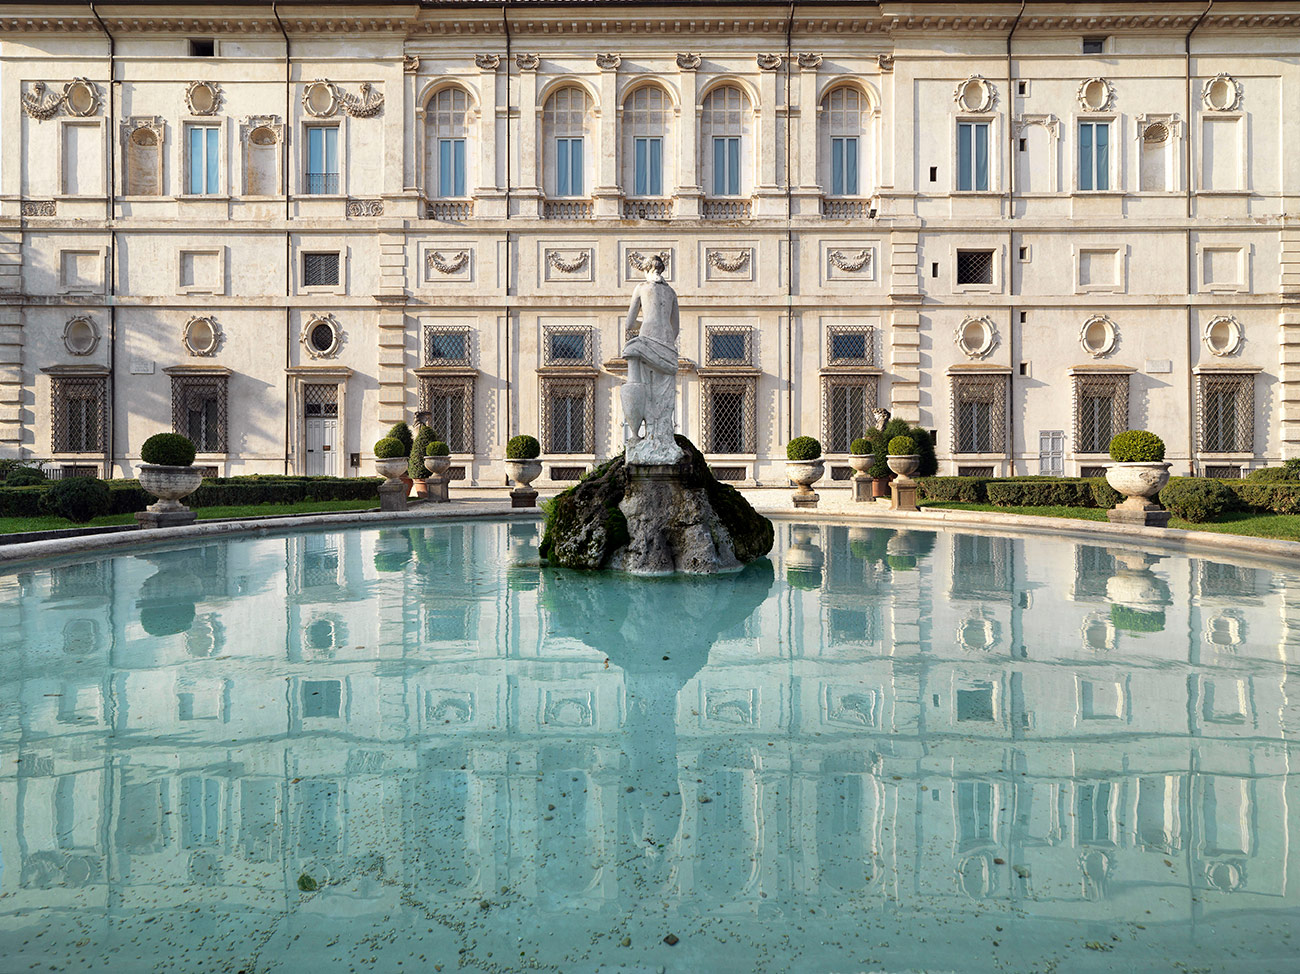
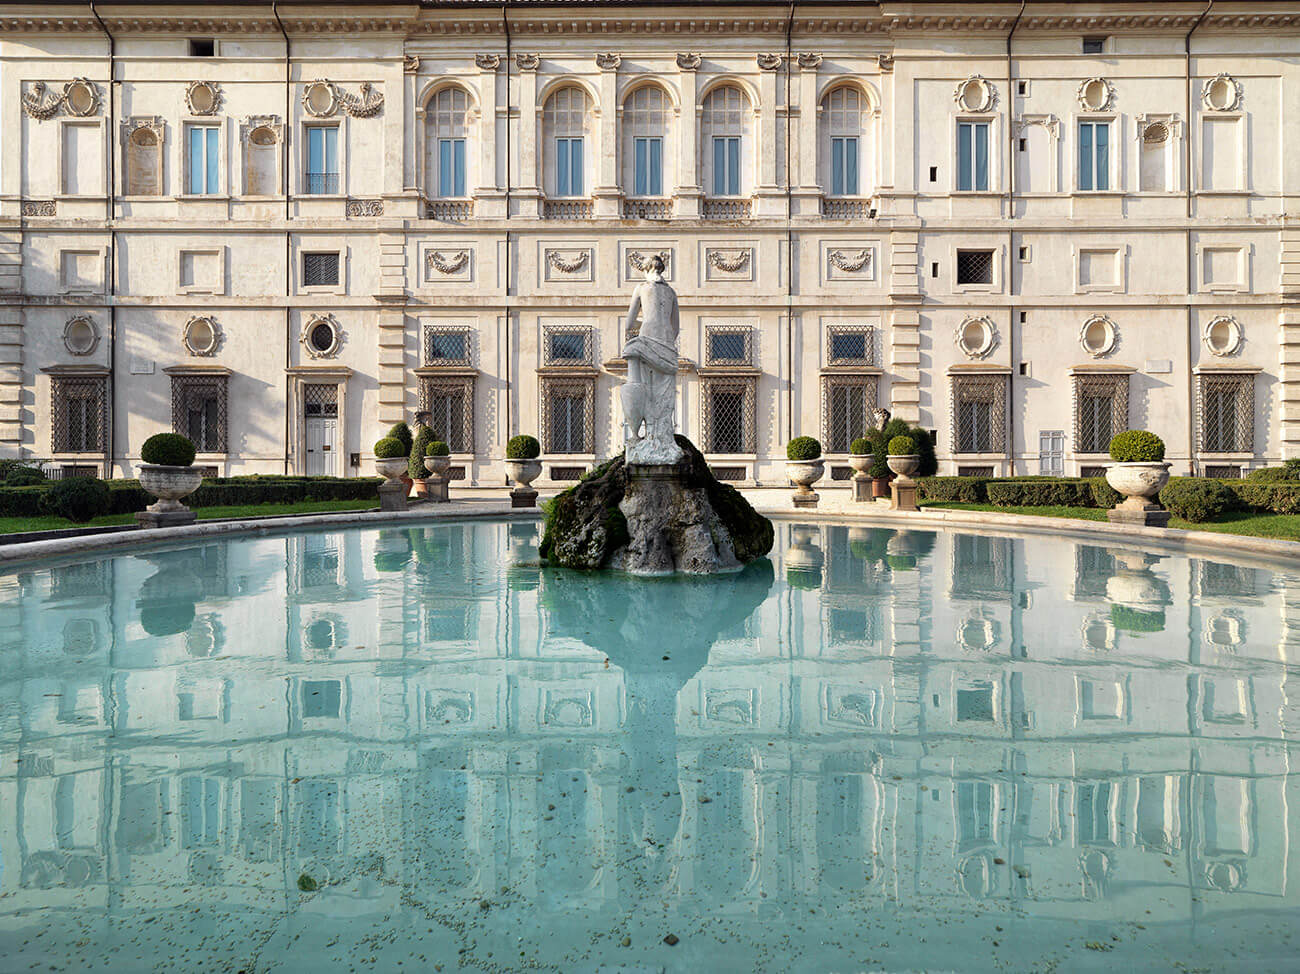
fix optimized images

diff --git a/tools/googlemaps.html b/tools/googlemaps.html
@@ -9,7 +9,7 @@
     <h1 style="text-align: center;">Google Maps TEST</h1>
     <div class="row-100">
         <div class="container-50">
-            <input type="text" id="search-box" placeholder="Cerca per nome, categoria o descrizione" style="width: 300px; padding: 10px;">
+            <input type="text" id="search-box" placeholder="Search by name, category or description" style="width: 300px; padding: 10px;">
             <div id="autocomplete-suggestions" style="border: 1px solid #ccc; width: 300px; display: none;"></div>
     
             <!-- Mappa -->
@@ -17,9 +17,12 @@
     
             <!-- Filtri per categoria -->
             <div id="filters">
-                <button onclick="filterByCategory('all'); setActiveButton(this)" class="active">Mostra Tutti</button>
-                <button onclick="filterByCategory('museum'); setActiveButton(this)">Musei</button>
-                <button onclick="filterByCategory('historical'); setActiveButton(this)">Luoghi Storici</button>
+                <button onclick="filterByCategory('all'); setActiveButton(this)" class="active"> Show all</button>
+                <button onclick="filterByCategory('museum'); setActiveButton(this)"> <img src="/assets/img/blue-dot.svg" alt=""> Museums</button>
+                <button onclick="filterByCategory('historical'); setActiveButton(this)"> <img src="/assets/img/red-dot.svg" alt=""> Historical Places</button>
+                <button onclick="filterByCategory('modern'); setActiveButton(this)"> <img src="/assets/img/orange-dot.svg" alt=""> Modern Places</button>
+                <button onclick="filterByCategory('religious'); setActiveButton(this)"> <img src="/assets/img/purple-dot.svg" alt=""> Religious Places</button>
+                <button onclick="filterByCategory('park'); setActiveButton(this)"> <img src="/assets/img/green-dot.svg" alt=""> Parks</button>
             </div>
         </div>
         <div class="container-50">
@@ -49,7 +52,10 @@
         // Categorie personalizzate con icone diverse
         let categoryIcons = {
             "museum": "/assets/img/blue-dot.svg",
-            "historical": "/assets/img/red-dot.svg"
+            "historical": "/assets/img/red-dot.svg",
+            "modern": "/assets/img/orange-dot.svg",
+            "religious": "/assets/img/purple-dot.svg",
+            "park": "/assets/img/green-dot.svg"
         };
     
         // Funzione per aggiungere marker
@@ -58,17 +64,17 @@
                 let marker = new google.maps.Marker({
                     position: { lat: location.lat, lng: location.lng },
                     map: googleMap,
-                    icon: categoryIcons[location.category] || "/assets/img/green-dot.svg",
+                    icon: categoryIcons[location.category] || "/assets/img/yellow-dot.svg",
                     title: location.name
                 });
     
                 let contentString = `
                     <div>
                         <h2>${location.name}</h2>
-                        <p><strong>Descrizione:</strong> ${location.description}</p>
-                        <p><strong>Indirizzo:</strong> ${location.address}</p>
-                        <p><strong>Telefono:</strong> ${location.phone}</p>
-                        <p><a href="${location.url}" target="_blank">Sito web</a></p>
+                        <p><strong>Description:</strong> ${location.description}</p>
+                        <p><strong>Address:</strong> ${location.address}</p>
+                        <p><strong>Telephone:</strong> ${location.phone}</p>
+                        <p><a href="${location.url}" target="_blank">Website</a></p>
                         <img src="${location.image}" alt="${location.name}" style="width: 100px;">
                     </div>
                 `;
@@ -102,7 +108,7 @@
                     initializeSearch(data);
                 })
                 .catch(error => {
-                    console.error('Errore nel caricamento delle posizioni:', error);
+                    console.error('Error loading locations:', error);
                 });
         }
     
@@ -140,11 +146,11 @@
             showResultsDiv.innerHTML = locations.map(location => `
                 <div class="result">
                     <h2>${location.name}</h2>
-                    <p><strong>Descrizione:</strong> ${location.description}</p>
+                    <p><strong>Description:</strong> ${location.description}</p>
                     <p><strong>Categoria:</strong> ${location.category}</p>
-                    <p><strong>Indirizzo:</strong> ${location.address}</p>
-                    <p><strong>Telefono:</strong> ${location.phone}</p>
-                    <p><a href="${location.url}" target="_blank">Sito web</a></p>
+                    <p><strong>Address:</strong> ${location.address}</p>
+                    <p><strong>Telephone:</strong> ${location.phone}</p>
+                    <p><a href="${location.url}" target="_blank">Website</a></p>
                     <img src="${location.image}" alt="${location.name}" style="width: 100px;">
                 </div>
             `).join('');
@@ -283,10 +289,18 @@
             border: 1px solid #ccc;
             border-radius: 15px;
             cursor: pointer;
+            display: flex;
+            flex-direction: row;
+            justify-content: center;
+            align-items: center;
         }
         #filters button.active {
             background-color: darkblue;
             color: white;
+        }
+        #filters button img {
+            margin-right: 5px;
+            max-width: 25px;
         }
         #showResults {
             margin-top: 0px;
